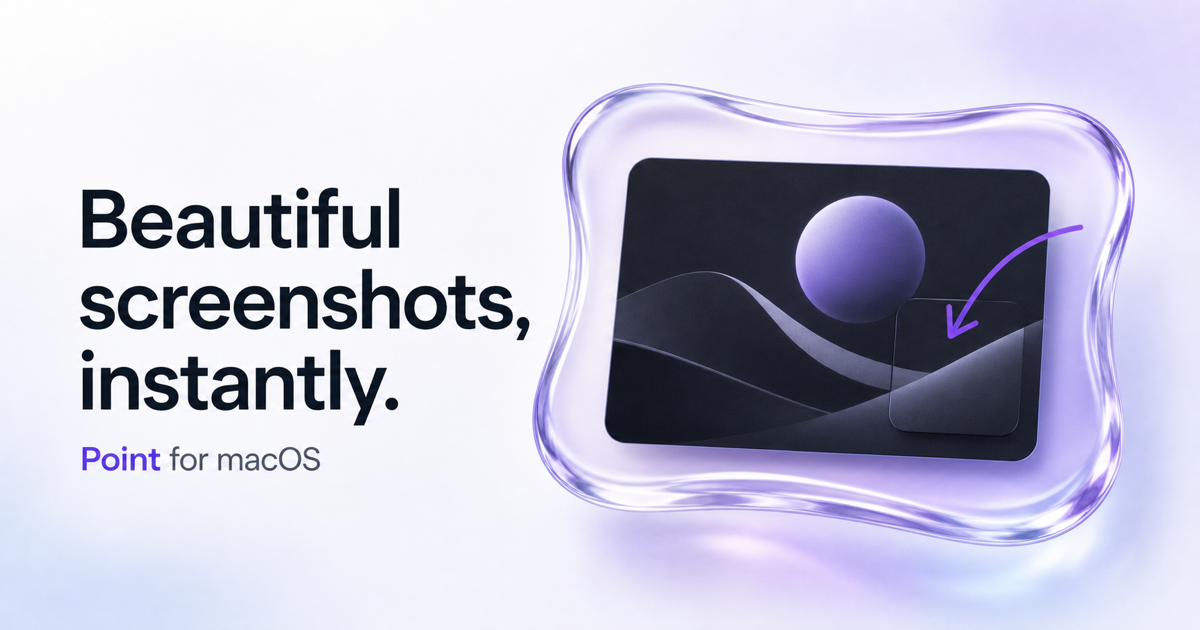
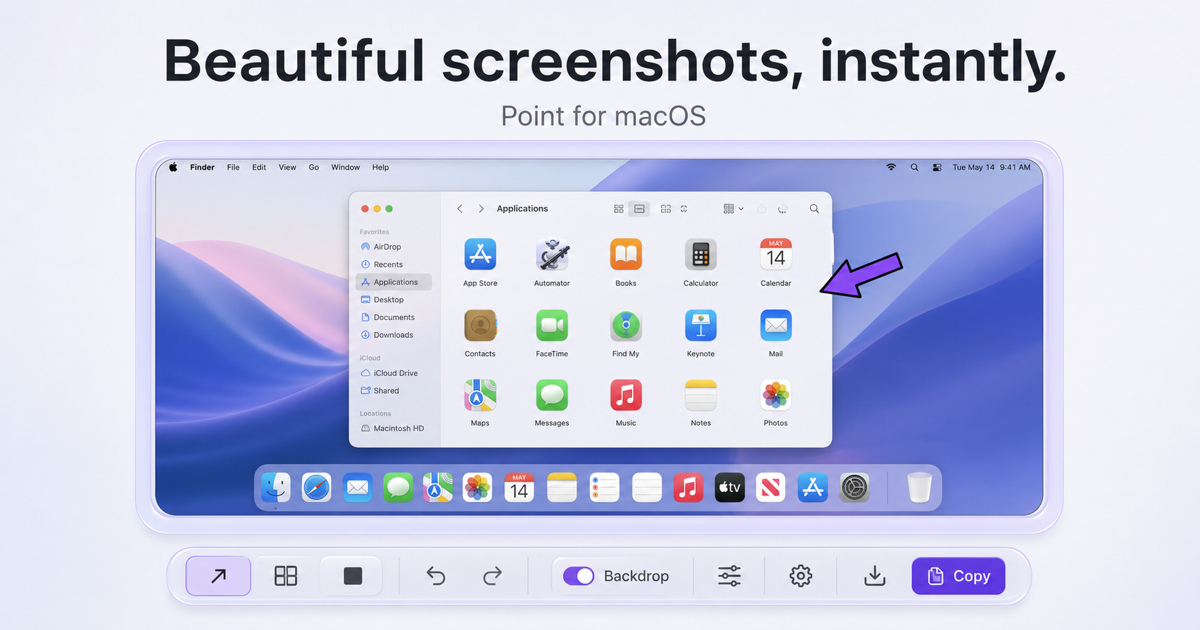
Align showcase with Point UI

diff --git a/docs/index.html b/docs/index.html
@@ -65,7 +65,12 @@
       text-decoration: none;
     }
 
-    .brand img { width: 38px; height: 38px; }
+    .brand img {
+      width: 38px;
+      height: 38px;
+      border-radius: 10px;
+      box-shadow: 0 2px 8px rgba(43, 35, 64, .12);
+    }
 
     .nav-link {
       color: #51515c;
@@ -263,28 +268,90 @@
       bottom: 42px;
       display: flex;
       align-items: center;
-      gap: 4px;
-      padding: 7px;
-      border: 1px solid rgba(255,255,255,.72);
-      border-radius: 17px;
+      gap: 9px;
+      min-height: 56px;
+      padding: 10px 18px;
+      border: 1px solid rgba(255,255,255,.68);
+      border-radius: 28px;
       background: rgba(246, 246, 250, .68);
       box-shadow: 0 16px 36px rgba(22, 30, 58, .22), inset 0 1px rgba(255,255,255,.8);
       backdrop-filter: blur(24px) saturate(1.2);
       transform: translateX(-50%);
     }
 
+    .tool-picker {
+      display: flex;
+      align-items: center;
+      gap: 2px;
+    }
+
     .tool {
-      width: 36px;
+      width: 34px;
       height: 34px;
       display: grid;
       place-items: center;
-      border-radius: 11px;
+      border: 1px solid transparent;
+      border-radius: 17px;
       color: #4d4c56;
-      font-size: 13px;
+      font-size: 14px;
       font-weight: 750;
     }
 
-    .tool.active { color: white; background: linear-gradient(#926de8, #7148ce); box-shadow: inset 0 1px rgba(255,255,255,.35); }
+    .tool.active {
+      border-color: rgba(113, 72, 206, .22);
+      color: #7148ce;
+      background: rgba(113, 72, 206, .16);
+    }
+
+    .toolbar-divider {
+      width: 1px;
+      height: 22px;
+      background: rgba(68, 67, 76, .18);
+    }
+
+    .toolbar-label { color: #3e3d45; font-size: 12px; font-weight: 650; }
+
+    .switch {
+      width: 29px;
+      height: 17px;
+      padding: 2px;
+      border-radius: 99px;
+      background: #7650d4;
+      box-shadow: inset 0 1px 2px rgba(52, 31, 105, .22);
+    }
+
+    .switch::after {
+      display: block;
+      width: 13px;
+      height: 13px;
+      margin-left: 12px;
+      border-radius: 50%;
+      background: white;
+      box-shadow: 0 1px 3px rgba(30, 25, 45, .25);
+      content: "";
+    }
+
+    .toolbar-action {
+      width: 24px;
+      display: grid;
+      place-items: center;
+      color: #47464f;
+      font-size: 14px;
+      font-weight: 650;
+    }
+
+    .copy-action {
+      min-width: 49px;
+      height: 30px;
+      display: grid;
+      place-items: center;
+      border-radius: 15px;
+      color: white;
+      background: #7650d4;
+      box-shadow: inset 0 1px rgba(255,255,255,.34), 0 2px 7px rgba(75, 48, 145, .23);
+      font-size: 12px;
+      font-weight: 700;
+    }
 
     .features {
       display: grid;
@@ -328,6 +395,7 @@
       .shot-content { padding: 44px 30px 70px; }
       .shot p { font-size: 14px; }
       .annotation { right: 8%; bottom: 20%; width: 105px; }
+      .toolbar { bottom: 29px; transform: translateX(-50%) scale(.72); transform-origin: bottom center; }
       .features { grid-template-columns: 1fr; padding-bottom: 70px; }
       footer { flex-direction: column; }
     }
@@ -370,7 +438,13 @@
             </div>
           </div>
           <div class="toolbar" aria-hidden="true">
-            <span class="tool active">↗</span><span class="tool">A</span><span class="tool">▦</span><span class="tool">■</span><span class="tool">⌘</span>
+            <span class="tool-picker"><span class="tool active">↗</span><span class="tool">▦</span><span class="tool">■</span></span>
+            <span class="toolbar-divider"></span>
+            <span class="toolbar-action">↶</span><span class="toolbar-action">↷</span>
+            <span class="toolbar-divider"></span>
+            <span class="toolbar-label">Backdrop</span><span class="switch"></span><span class="toolbar-action">☷</span>
+            <span class="toolbar-divider"></span>
+            <span class="toolbar-action">⚙</span><span class="toolbar-action">⇩</span><span class="copy-action">Copy</span>
           </div>
         </div>
       </section>
@@ -378,8 +452,8 @@
       <section class="features" aria-label="Features">
         <article class="feature">
           <span class="feature-kicker">Fast</span>
-          <h3>Three fingers. Two taps.</h3>
-          <p>Start a capture straight from the trackpad, or use your own global keyboard shortcut.</p>
+          <h3>Three-finger double-click.</h3>
+          <p>Double-click with three fingers to capture, or use your own global keyboard shortcut.</p>
         </article>
         <article class="feature">
           <span class="feature-kicker">Focused</span>
